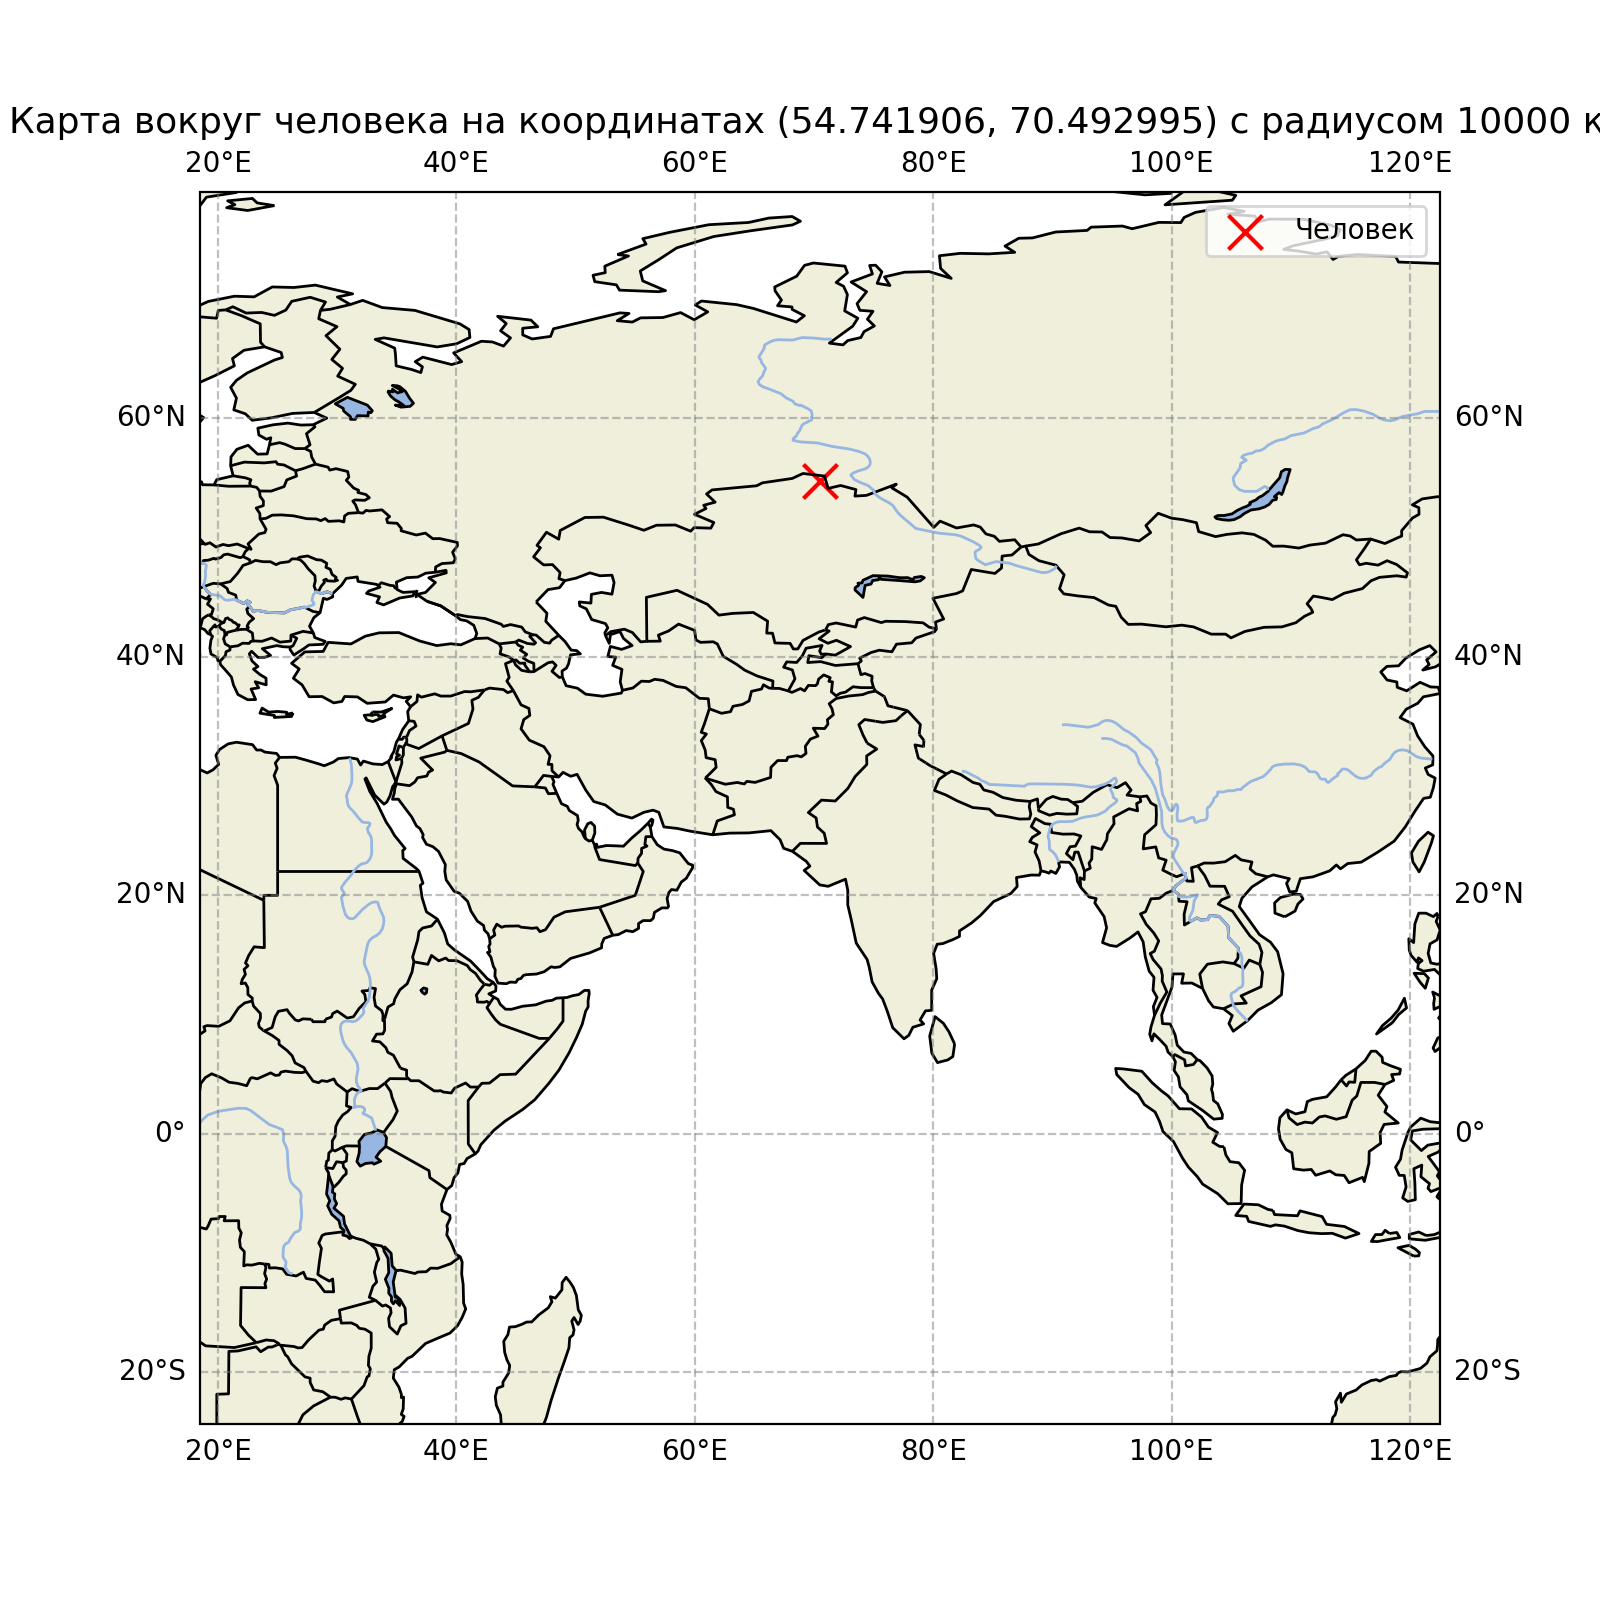
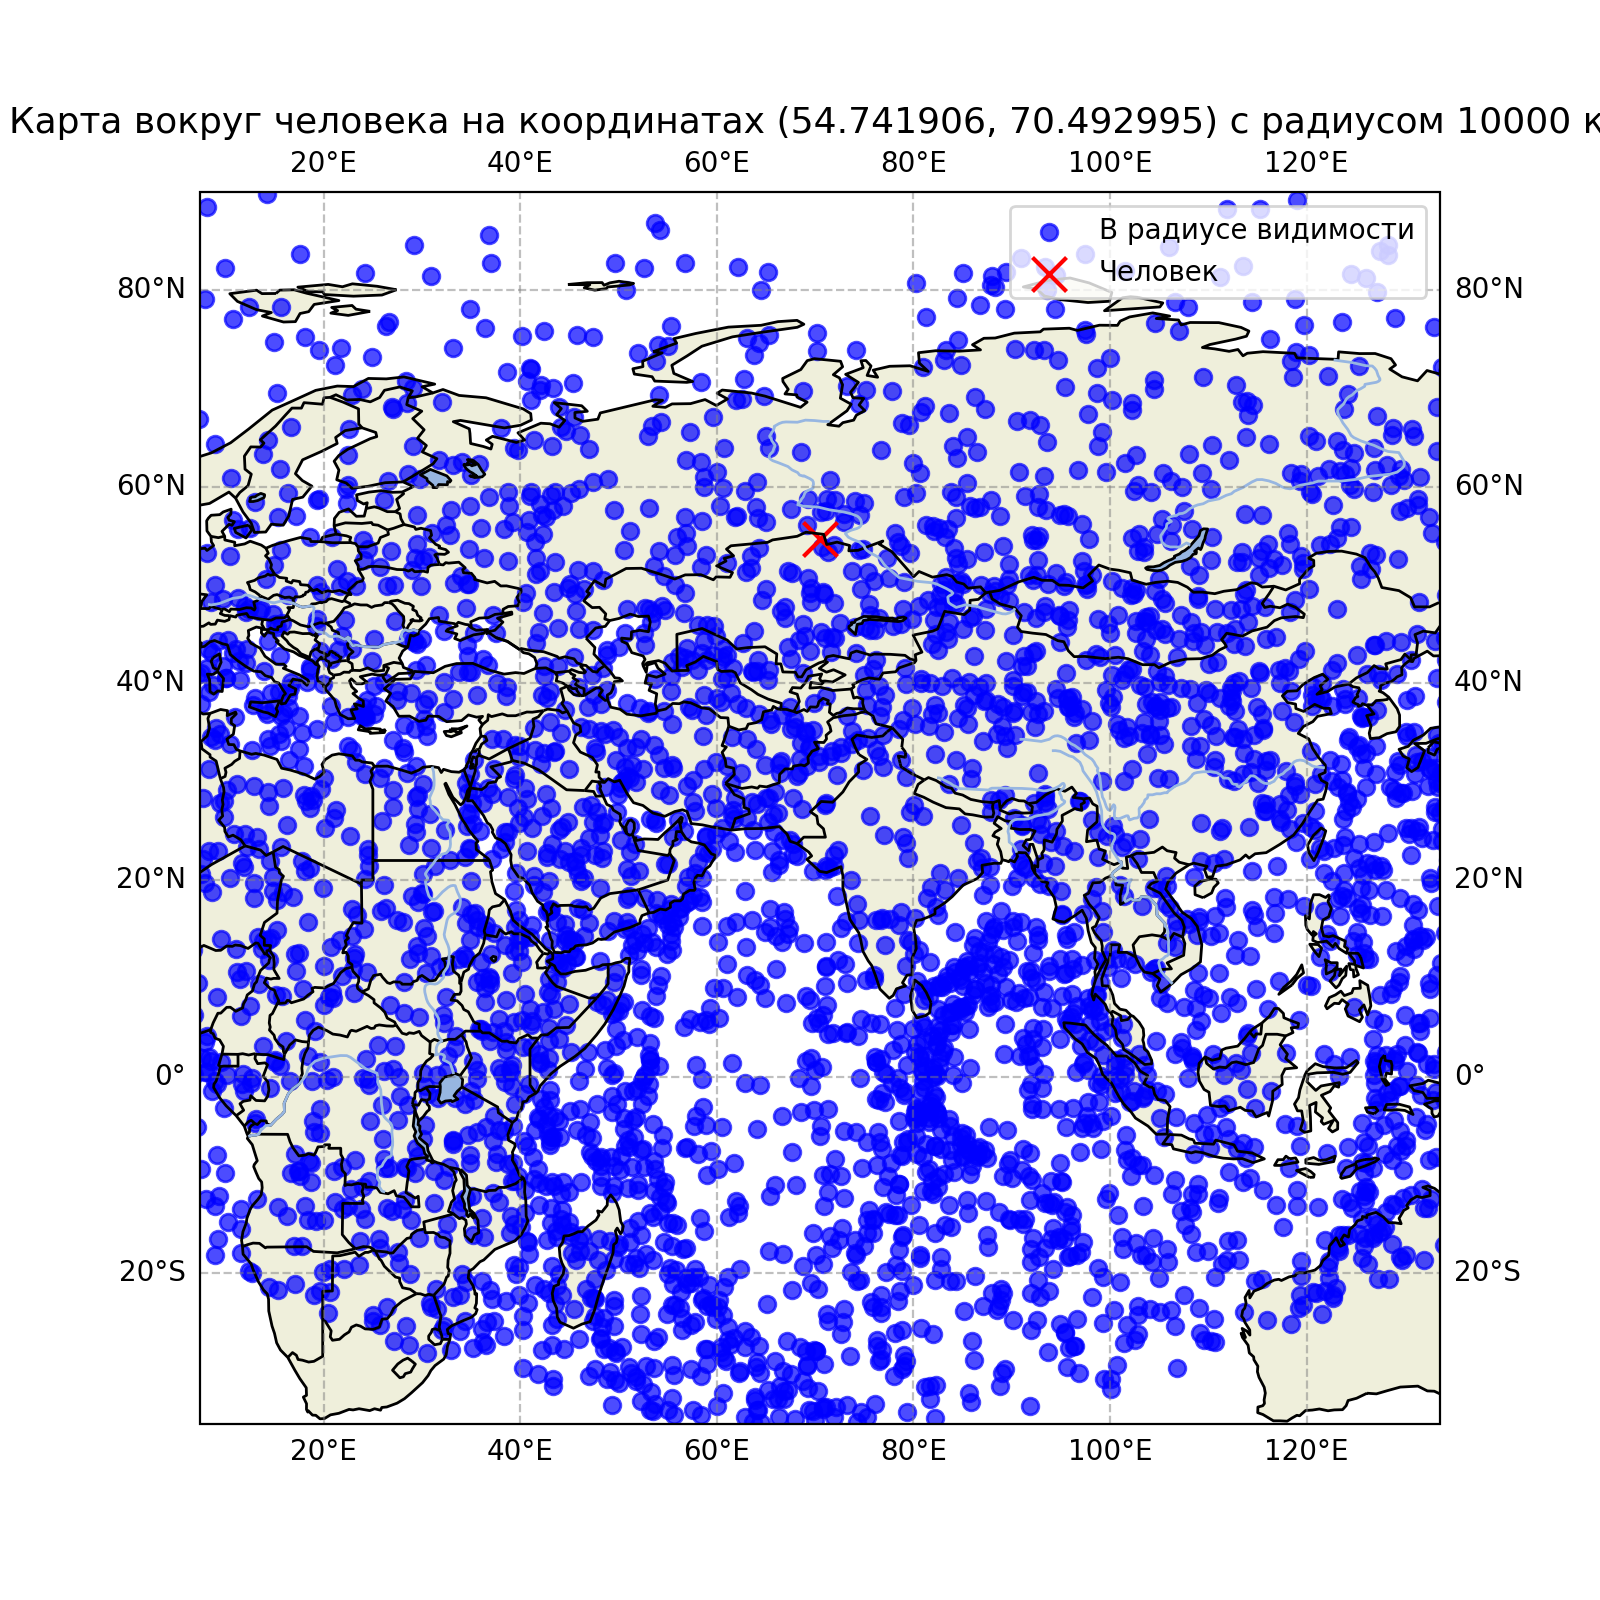
я решил проблему с отображением спутников на карте, теперь все работает

diff --git a/solver/src/map_of_trash.py b/solver/src/map_of_trash.py
@@ -55,11 +55,10 @@ class Map:
         for i in range(n_tr):
             for j in range(3):
                 self.pos_trash[i][j] = self.FloatType(self.data['trash'][i]['coords'][j])
-    
 
         # НАЧАЛО ДЛЯ 2D
     def get_map(self, person_location, radius_km):
-        pos_sattelite = self.pos_sattelite 
+        pos_sattelite = list(self.pos_sattelite) + list(self.pos_trash) #спутники и мусор
         points = [project_orbit_to_earth(x, y, z,) for x, y, z in pos_sattelite] 
 
                 # Фильтрация точек в радиусе

diff --git a/solver/src/main.py b/solver/src/main.py
@@ -14,7 +14,10 @@ def run(data, output_path):
     handl.get_graphical_output(pars.get_user_graphical_data())
 
     map_creating = map_of_trash.Map('./' + data)
+    map_creating.get_info()
     map_creating.get_map((54.741906, 70.492995), 10000)
+    map_creating.call()
+
 
     
 
